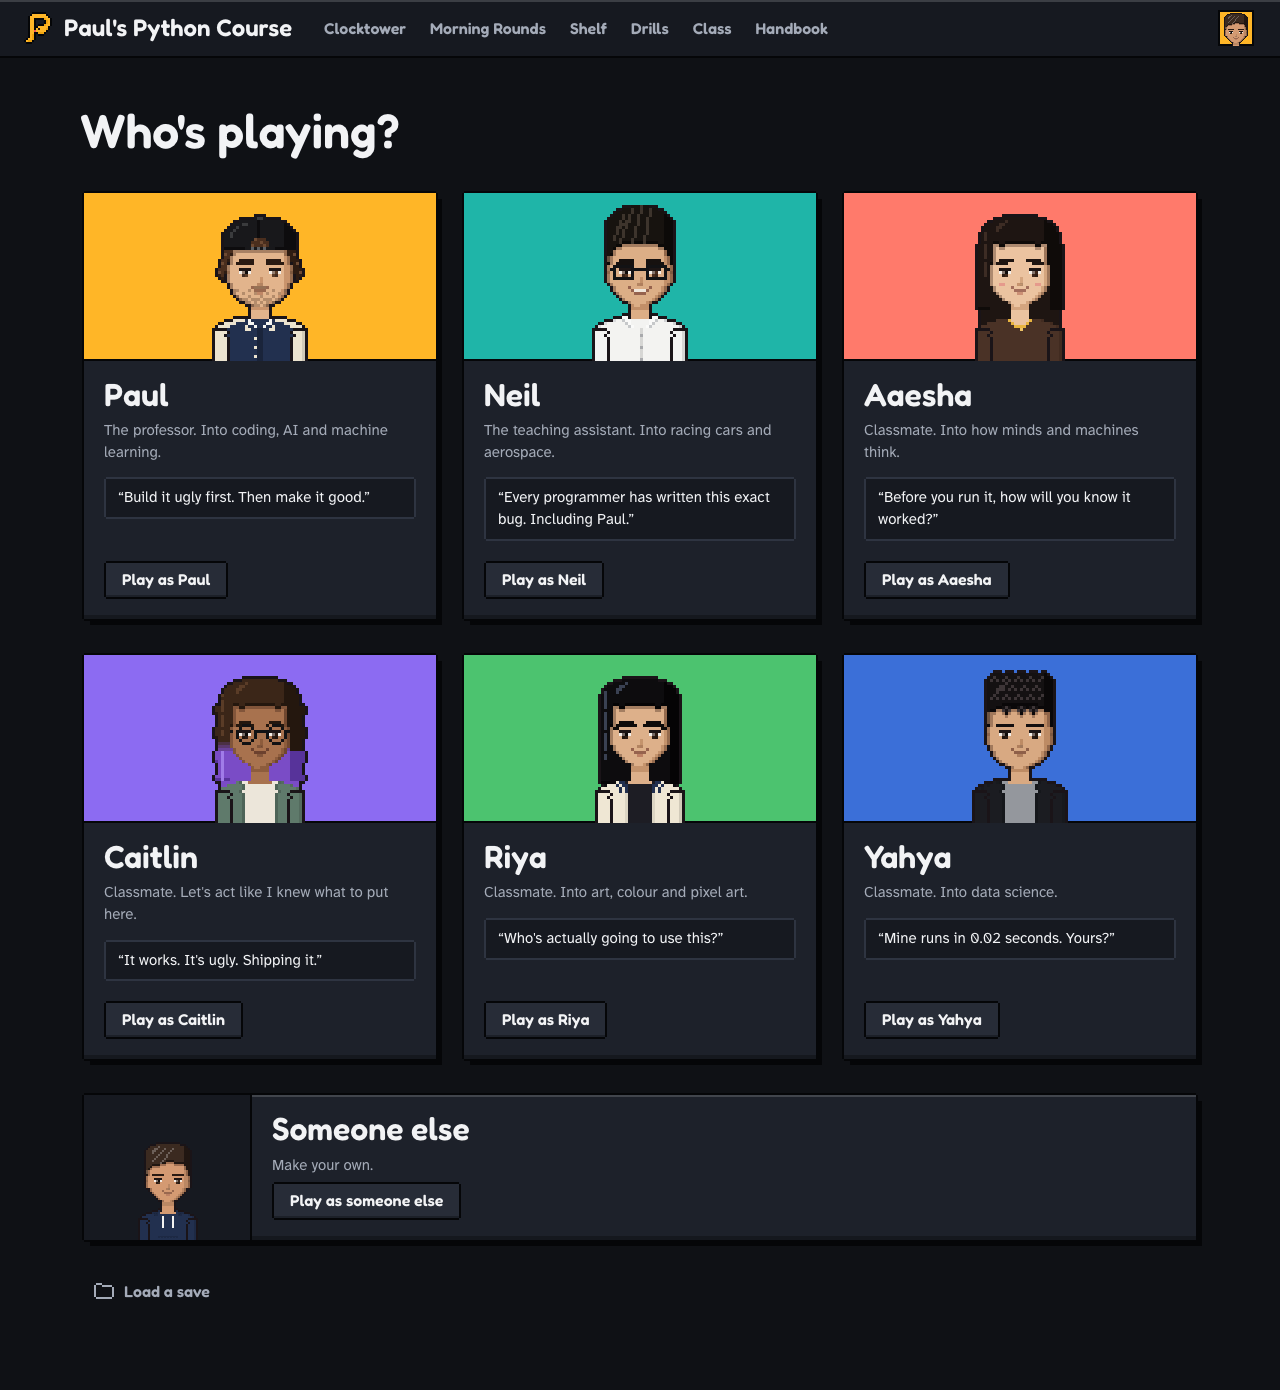
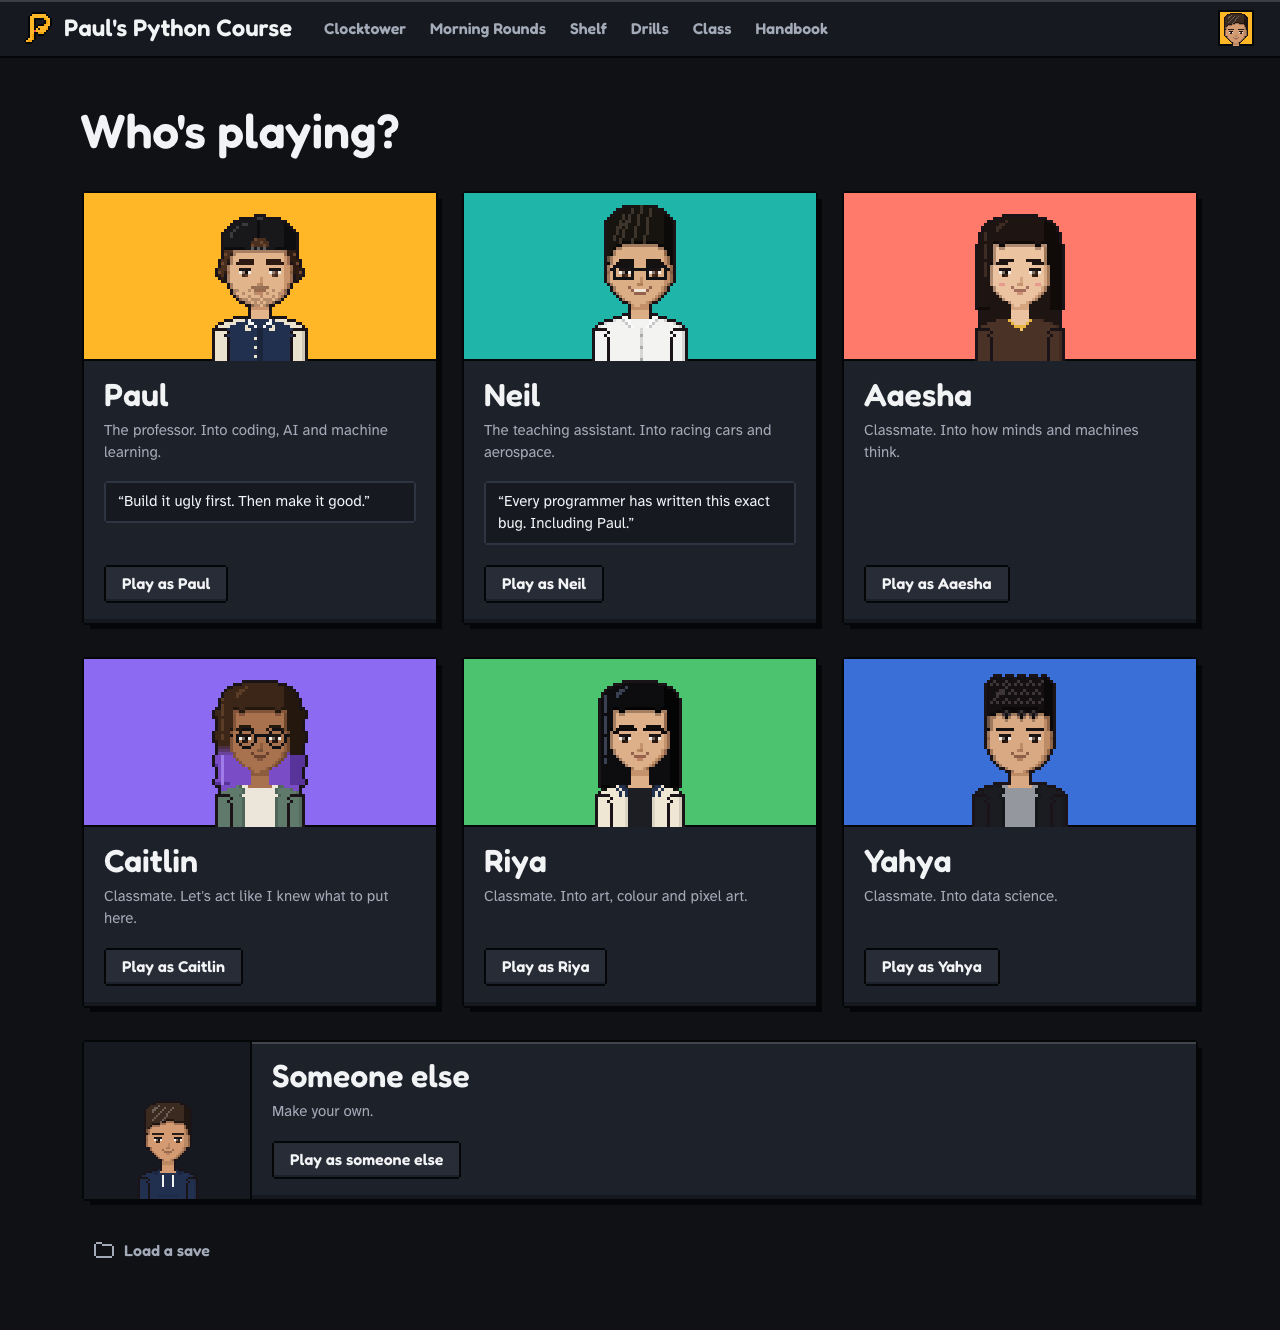
Only Paul and Neil keep a quote on the picker

diff --git a/components/welcome/playable.ts b/components/welcome/playable.ts
@@ -1,5 +1,5 @@
 // The six you can play as on "Who's playing?" and in Settings (lib/playas.ts): who they are, a line
-// about them and a line in their voice, and the signature moves they show
+// about them, and the signature moves they show
 // off when you point at them (lib/pixel/gestures/signature.ts), the first one most of all.
 import type { CastId } from "@/lib/playas";
 
@@ -9,17 +9,18 @@ export interface Playable {
   role: string;
   /** A line about them, after their role: "Into racing cars and aerospace." */
   about: string;
-  line: string;
+  /** Paul's and Neil's cards also carry a line in their voice. */
+  line?: string;
   moves: string[];
 }
 
 export const PLAYABLE: Playable[] = [
   { id: "paul", name: "Paul", role: "The professor", about: "Into coding, AI and machine learning.", line: "Build it ugly first. Then make it good.", moves: ["loss-curve", "robot-hold", "cap-push", "laptop-mug"] },
   { id: "neil", name: "Neil", role: "The teaching assistant", about: "Into racing cars and aerospace.", line: "Every programmer has written this exact bug. Including Paul.", moves: ["rocket-launch", "helmet-show", "drone-fly", "steering-wheel"] },
-  { id: "aaesha", name: "Aaesha", role: "Classmate", about: "Into how minds and machines think.", line: "Before you run it, how will you know it worked?", moves: ["brain-model", "test-pass", "memory-pairs", "card-sort"] },
-  { id: "caitlin", name: "Caitlin", role: "Classmate", about: "Let's act like I knew what to put here.", line: "It works. It's ugly. Shipping it.", moves: ["guitar-strum", "controller-victory", "cupcake-tray", "arcade-stick"] },
-  { id: "riya", name: "Riya", role: "Classmate", about: "Into art, colour and pixel art.", line: "Who's actually going to use this?", moves: ["paint-palette", "pixel-canvas", "framed-print", "camera-snap"] },
-  { id: "yahya", name: "Yahya", role: "Classmate", about: "Into data science.", line: "Mine runs in 0.02 seconds. Yours?", moves: ["stopwatch-click", "bar-chart", "dice-roll", "double-peace"] },
+  { id: "aaesha", name: "Aaesha", role: "Classmate", about: "Into how minds and machines think.", moves: ["brain-model", "test-pass", "memory-pairs", "card-sort"] },
+  { id: "caitlin", name: "Caitlin", role: "Classmate", about: "Let's act like I knew what to put here.", moves: ["guitar-strum", "controller-victory", "cupcake-tray", "arcade-stick"] },
+  { id: "riya", name: "Riya", role: "Classmate", about: "Into art, colour and pixel art.", moves: ["paint-palette", "pixel-canvas", "framed-print", "camera-snap"] },
+  { id: "yahya", name: "Yahya", role: "Classmate", about: "Into data science.", moves: ["stopwatch-click", "bar-chart", "dice-roll", "double-peace"] },
 ];
 
 export const playableOf = (id: string | null | undefined): Playable | undefined => PLAYABLE.find((p) => p.id === id);

diff --git a/components/welcome/Welcome.tsx b/components/welcome/Welcome.tsx
@@ -135,10 +135,12 @@ function WhoIsPlaying({ heading, onSomeoneElse }: { heading: React.RefObject<HTM
                   <p className={styles.about} id={`about-${p.id}`}>
                     {p.role}. {p.about}
                   </p>
-                  <p className={styles.line} id={`line-${p.id}`}>
-                    &ldquo;{p.line}&rdquo;
-                  </p>
-                  <button type="button" className={styles.play} aria-describedby={`about-${p.id} line-${p.id}`} disabled={Boolean(picked)} onClick={() => void pick(p)} onFocus={() => point(p.id)} onBlur={() => point(null)}>
+                  {p.line ? (
+                    <p className={styles.line} id={`line-${p.id}`}>
+                      &ldquo;{p.line}&rdquo;
+                    </p>
+                  ) : null}
+                  <button type="button" className={styles.play} aria-describedby={p.line ? `about-${p.id} line-${p.id}` : `about-${p.id}`} disabled={Boolean(picked)} onClick={() => void pick(p)} onFocus={() => point(p.id)} onBlur={() => point(null)}>
                     Play as {p.name}
                   </button>
                 </div>

diff --git a/components/welcome/Welcome.module.css b/components/welcome/Welcome.module.css
@@ -103,7 +103,7 @@
 }
 
 .about {
-  margin: 0;
+  margin: 0 0 var(--s-3);
   font-size: var(--fs-2);
   line-height: 1.45;
   color: var(--text-2);
@@ -112,7 +112,7 @@
 /* A line of theirs, in a small bubble. */
 .line {
   display: block;
-  margin: var(--s-2) 2px var(--s-4);
+  margin: 0 2px var(--s-4);
   padding: var(--s-2) var(--s-3);
   font-size: var(--fs-2);
   line-height: 1.45;

diff --git a/DECISIONS.md b/DECISIONS.md
@@ -309,7 +309,7 @@ The owner said the site looked and read as if it was AI generated.
 - **Headers:** the save cloud shows only with an account, since a guest has nothing to sync. The map icon went because the logo already goes home, "Log in" moved to Settings only, and the step bar's caption went because each step has a tooltip and the page has its title.
 - **"What to do":** removed from every step. The step's own words and its one main button already say it.
 - **Wording:** intros and hints that explained how a page works were cut or reduced to a line. Warnings and what a save merge does stay, because they change what someone chooses.
-- **Who you play as (`playable.ts`):** `about` is a whole sentence, where it used to be a phrase after "Into", so a card can say something else. Caitlin's says "Let's act like I knew what to put here.", in the owner's words.
+- **Who you play as (`playable.ts`):** `about` is a whole sentence, where it used to be a phrase after "Into", so a card can say something else. Caitlin's says "Let's act like I knew what to put here.", in the owner's words. Only Paul and Neil keep a quote on their cards, at the owner's request; everyone's lines still come up in the game itself.
 - **Code in speech:** lines in `content/characters/` put code in backticks, which used to show as typed. `Speech` now sets it as code and leaves the backticks out for screen readers.
 - **Take It Home commands:** a long command wraps in its box and Copy takes it whole. A box that scrolled sideways couldn't be reached by keyboard.
 
